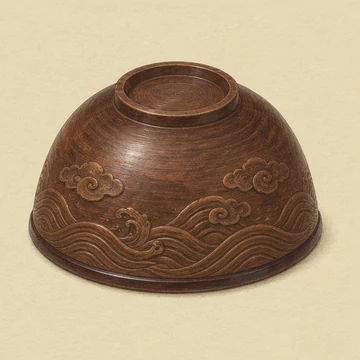
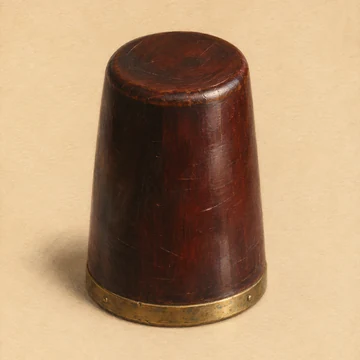
Use painted art for 韋小寶, the shop, the dice cup and the marked stone
Replaces the remaining placeholders with the producer's pictures. With
the youth's portrait, every picture the game already showed now has
real art.

The stone comes as six files showing none to five marks. They are made
from the one painting by covering later marks with bare stone taken
from the same picture, so the journal shows as many marks as runs have
been finished. Before, all five showed from the first run, which
contradicted the opening line about a clean stone.

The shop picture is cropped to leave out a faint seal-like mark in its
corner.

Claude-Session: https://claude.ai/code/session_01WcCcPKMckEEXJJxgADnj2E

diff --git a/wiki/src/catalog/story.js b/wiki/src/catalog/story.js
@@ -209,7 +209,7 @@ function world() {
     name: TITLES.world,
     tag: '遊戲內的說法',
     summary: G.WORLD[0].text,
-    image: gameArt('stone-marks.webp'),
+    image: gameArt('stone-marks-' + G.WAKES.length + '.webp'),
     sections: [
       ...G.WORLD.map((w) => speech(w.name, w.text)),
       links('石上的五道痕', G.WAKES.map((w, i) => link('story', wakeId(i), w.name))),
@@ -226,7 +226,8 @@ function wake(w, i) {
     name: w.name,
     tag: '第 ' + (i + 1) + ' 輪・石上的痕',
     summary: w.mark,
-    image: gameArt('stone-marks.webp'),
+    // The stone as it stands once this run's mark has been cut.
+    image: gameArt('stone-marks-' + (i + 1) + '.webp'),
     sections: [
       speech(
         '睜眼所見（第一局前）',
@@ -255,7 +256,7 @@ function fate(f) {
     name: f.name,
     tag: '第五輪後・劇透',
     summary: f.desc,
-    image: gameArt('stone-marks.webp'),
+    image: gameArt('stone-marks-' + G.WAKES.length + '.webp'),
     sections: [
       speech(G.FATE_PROMPT, f.desc),
       speech('這樣選了之後', f.ending),

diff --git a/game/src/ui/wake-views.js b/game/src/ui/wake-views.js
@@ -36,8 +36,10 @@ function wakeJournal(profile, voyage, expanded = false) {
     opened +
     '／5 道</span></summary><div class="wake-leaf">' +
     '<img src="' +
-    esc(art('stone-marks.webp')) +
-    '" alt="石臺旁的石壁，上面留著少年每一輪刻下的記號">' +
+    esc(art('stone-marks-' + opened + '.webp')) +
+    '" alt="石臺旁的石壁，' +
+    (opened ? '上面留著少年刻下的 ' + opened + ' 道記號' : '上面甚麼也沒有') +
+    '">' +
     '<ol aria-label="石上的痕">' +
     holes +
     '</ol><p>' +

diff --git a/asset-gen/prompts.md b/asset-gen/prompts.md
@@ -10,7 +10,7 @@ The pictures are in three groups:
 | B | New pictures for story moments that are text-only today | The file name is reserved here. The game needs a small change to show each one. |
 | C | Cover art that still shows the old ferry | Save over the existing file. |
 
-Start with group A. Those are the placeholders a player sees most.
+Group A is finished: all of its pictures are in the game. Group B and C remain.
 
 ---
 
@@ -82,7 +82,9 @@ A Chinese youth of about seventeen, lean and sun-browned, with plain features th
 
 Avoid also: `armour, jewellery, crown, embroidered robes, heroic pose, smirk`
 
-### A2. 韋小寶: `game/assets/npc-wei.webp`
+### A2. 韋小寶: `game/assets/npc-wei.webp` (done)
+
+In the game, cropped square from the top edge.
 
 - **Final size:** 480 × 480. **Generate at:** 1024 × 1024.
 - **Appears in:** the shop, the three-cup game, the prologue, and after a lost run.
@@ -94,7 +96,9 @@ A wiry young Chinese man in his early twenties from the Qing dynasty. Shaved for
 
 Avoid also: `official's hat, peacock feather, court robes, old man, beard, martial arts stance`
 
-### A3. The shop, 通吃坊: `game/assets/run-merchant.webp`
+### A3. The shop, 通吃坊: `game/assets/run-merchant.webp` (done)
+
+In the game. Cropped to 2:1, leaving out a faint seal-like mark the model put in the bottom right corner.
 
 - **Final size:** 1000 × 500. **Generate at:** 1536 × 768 (2:1), or 16:9 and crop.
 - **Appears in:** the banner at the top of the shop page, with the shop's name printed over the left side.
@@ -106,7 +110,9 @@ A makeshift gambling stall and shop at the foot of a cliff in a misty valley at 
 
 Avoid also: `boat, river, bridge, crowd, shopkeeper, signboard writing`
 
-### A4. The marked stone: `game/assets/stone-marks.webp`
+### A4. The marked stone: `game/assets/stone-marks-0.webp` to `stone-marks-5.webp` (done)
+
+In the game as six files showing none to five marks, all made from the one painting: later marks are covered with bare stone taken from unmarked parts of the same picture. The journal shows the file that matches the number of runs finished. If the painting is ever redone, keep the marks well apart, as below, so the same can be done again.
 
 - **Final size:** 1000 × 360. **Generate at:** 21:9, then crop to 25:9.
 - **Appears in:** the 石上的痕 journal, above a row of five labels numbered one to five.
@@ -118,11 +124,11 @@ A flat, weathered grey rock face seen straight on and filling the frame, lit by 
 
 Avoid also: `readable characters, paint, colour pigment, blood, cracks through the marks`
 
-### A5. The dice cup: `game/assets/bowl-cover.webp` (optional)
+### A5. The dice cup: `game/assets/bowl-cover.webp` (done)
 
 - **Final size:** 360 × 360. **Generate at:** 1024 × 1024.
 - **Appears in:** the three-cup game, three times side by side, as the cover over each prize.
-- **Note:** the current picture is an upturned wooden bowl, which already passes for a cup. Replace it only if you want a proper dice cup.
+- **Note:** this replaced an upturned wooden bowl left over from the old three-bowl game.
 
 ```text
 An upturned dice cup of dark lacquered wood, taller than it is wide, with a worn brass band around the rim that rests on the surface. Fine scratches and the polish of long handling.
@@ -287,10 +293,10 @@ Use the **Scenes** house style. Avoid also: `boat, river, ferry, bright sky`
 | File | Folder | Size | Group |
 | --- | --- | --- | --- |
 | `npc-youth.webp` (done) | `game/assets/` | 480 × 480 | A |
-| `npc-wei.webp` | `game/assets/` | 480 × 480 | A |
-| `run-merchant.webp` | `game/assets/` | 1000 × 500 | A |
-| `stone-marks.webp` | `game/assets/` | 1000 × 360 | A |
-| `bowl-cover.webp` (optional) | `game/assets/` | 360 × 360 | A |
+| `npc-wei.webp` (done) | `game/assets/` | 480 × 480 | A |
+| `run-merchant.webp` (done) | `game/assets/` | 1000 × 500 | A |
+| `stone-marks-0.webp` to `-5.webp` (done) | `game/assets/` | 1000 × 360 | A |
+| `bowl-cover.webp` (done) | `game/assets/` | 360 × 360 | A |
 | `npc-eagle.webp` | `game/assets/` | 480 × 480 | B |
 | `scene-open-eyes.webp` | `game/assets/` | 1000 × 500 | B |
 | `scene-board.webp` | `game/assets/` | 1000 × 500 | B |

diff --git a/wiki/content/單輪劇本.md b/wiki/content/單輪劇本.md
@@ -500,7 +500,7 @@
 - 五卷主線的逐卷解鎖、第十一局、劍塚五境的難度階梯（世界觀第 8 節）。目前遊戲只有卷一的內容。
 - 各英雄專屬的了緣條件。目前救下任何一局的影子，便有下一位英雄應帖。
 - 兩位英雄彼此「面善」的對白。
-- 新美術。少年的立繪已換上；韋小寶與石刻目前用的仍是標明「待製」的佔位圖；通吃坊仍用舊的船鋪圖（第 12 節）。
+- 其餘新美術。少年、韋小寶、通吃坊、石刻與骰盅的圖已換上；序幕、棋盤、階盡、闔眼的碎片等新場景仍只有文字，封面與面板頂上的橫幅仍是舊的渡口（第 12 節）。
 
 如何確認任何組合都說得通：`node tools/check-story.mjs` 會以不同的英雄組合與局的次序走完數百輪，檢查每一句都有人說、每位英雄的臺詞齊全、沒有哪一局提到別的局。
 
@@ -529,13 +529,7 @@
 
 十位局主、十張地圖與十個局中影的現有圖檔可以沿用。
 
-遊戲裡目前的佔位圖，畫好後以同名檔案覆蓋即可（都在 `game/assets/`）：
-
-| 檔名 | 內容 | 尺寸 |
-|---|---|---|
-| `npc-wei.webp` | 韋小寶 | 480 × 480 |
-| `stone-marks.webp` | 石上的五道痕 | 1000 × 360 |
-| `run-merchant.webp` | 通吃坊（目前仍是舊的船鋪圖） | 1000 × 500 |
+已換上的圖（都在 `game/assets/`）：少年 `npc-youth.webp`、韋小寶 `npc-wei.webp`、通吃坊 `run-merchant.webp`、骰盅 `bowl-cover.webp`，以及石刻 `stone-marks-0.webp` 至 `stone-marks-5.webp`。石刻由同一張畫製成六個版本，分別刻著零至五道痕；手記裡顯示的，是與已走完的輪數相符的那一張。
 
 ---
 

diff --git a/README.md b/README.md
@@ -76,9 +76,9 @@ Heroes are drawn at random and the boards come in a different order each run, so
 
 To add a board, write its own entry; to add a hero, write their own lines. Neither needs changes elsewhere. `rules/journey.js` (`dialogue`) assembles a scene from the three. The design is described in `wiki/content/單輪劇本.md`.
 
-Two pictures are placeholders until real art is drawn; replace the files in `game/assets/` under the same names: `npc-wei.webp`, `stone-marks.webp`.
+Prompts for the pictures the story still needs are in `asset-gen/prompts.md`, with each file's name, size and where its subject must sit. Pictures the game already shows (its group A) are all in place; the rest are new scenes that are text-only today.
 
-Prompts for generating these and the other pictures the story still needs are in `asset-gen/prompts.md`, with each file's name, size and where its subject must sit.
+The marked stone is six files, `stone-marks-0.webp` to `stone-marks-5.webp`, showing none to five marks. They were made from one painting by covering the later marks with bare stone from the same picture, so the journal can show exactly as many marks as runs have been finished.
 
 ## How the wiki stays in step with the game
 
